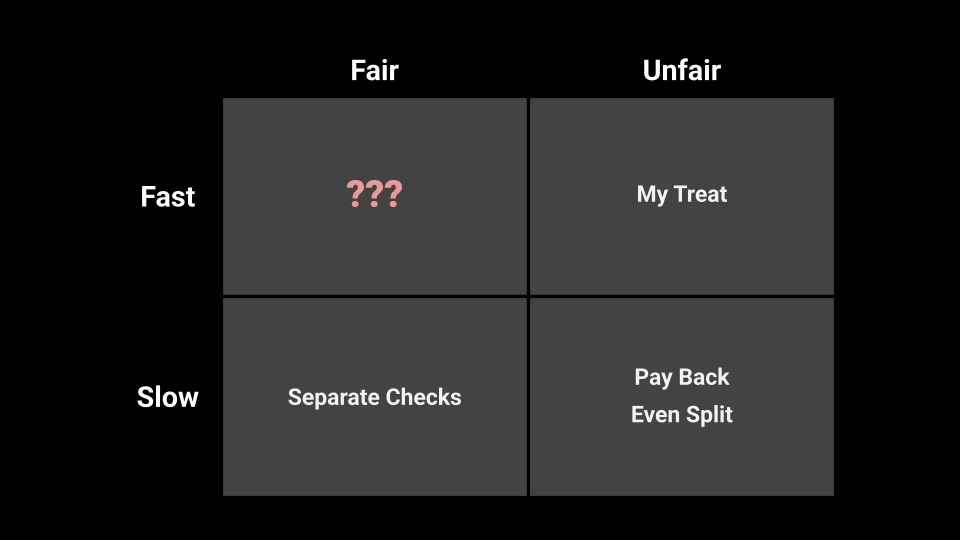
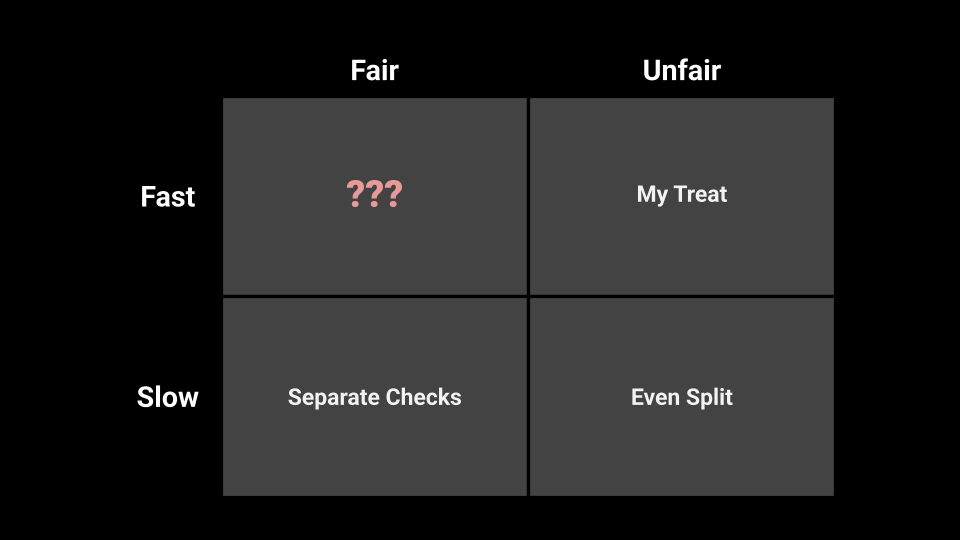
Fix latex

Changed region(s): [[0.6562, 0.6815, 0.7812, 0.8]]

diff --git a/assets/js/plain-dollars.js b/assets/js/plain-dollars.js
@@ -1,17 +1,21 @@
 document.addEventListener('DOMContentLoaded', function () {
+  var plainDollarAmount = /\$([0-9][0-9,]*(?:\.[0-9]+)?)(?=\s|[.,;:!?)]|$)/;
+  var plainDollarAmounts = /\$([0-9][0-9,]*(?:\.[0-9]+)?)(?=\s|[.,;:!?)]|$)/g;
   var walker = document.createTreeWalker(document.body, NodeFilter.SHOW_TEXT, {
     acceptNode: function (node) {
       var parent = node.parentNode;
       if (!parent || /^(SCRIPT|STYLE|TEXTAREA|CODE|PRE)$/i.test(parent.nodeName)) {
         return NodeFilter.FILTER_REJECT;
       }
-      return /\$[0-9]/.test(node.nodeValue) ? NodeFilter.FILTER_ACCEPT : NodeFilter.FILTER_SKIP;
+      return plainDollarAmount.test(node.nodeValue) ? NodeFilter.FILTER_ACCEPT : NodeFilter.FILTER_SKIP;
     }
   });
 
   var nodes = [];
   while (walker.nextNode()) nodes.push(walker.currentNode);
   nodes.forEach(function (node) {
-    node.nodeValue = node.nodeValue.replace(/\$([0-9])/g, '\\$$1');
+    node.nodeValue = node.nodeValue.replace(plainDollarAmounts, function (_match, amount) {
+      return '\\$' + amount;
+    });
   });
 });

diff --git a/assets/css/main.css b/assets/css/main.css
@@ -76,7 +76,7 @@ body {
   margin-top: calc(-1 * var(--spacing-md));
   margin-bottom: var(--spacing-md);
   font-style: italic;
-  line-height: .6em;
+  line-height: 1em;
 }
 
 .footnotes {
